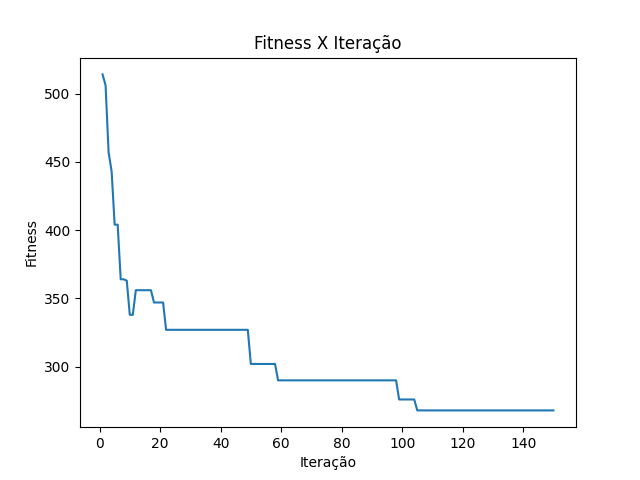
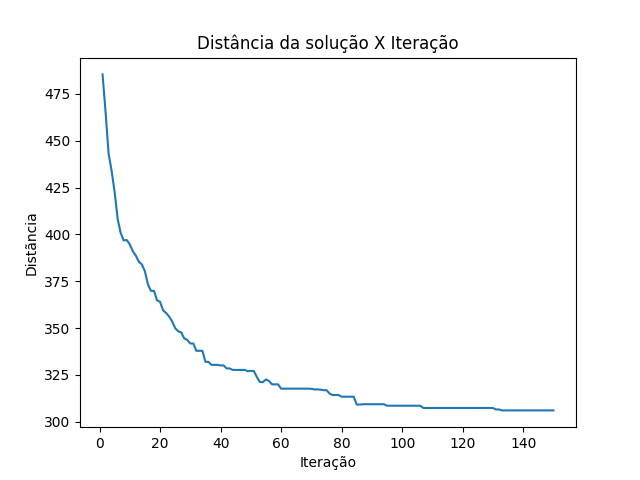
Testes feitos levando em conta as médias dos resultados; adicionado alguns comentários nas funções

diff --git a/t01/algorithms_tester.py b/t01/algorithms_tester.py
@@ -25,7 +25,7 @@ class AlgorithmsTester:
         ratio_of_genes_to_generate=RATIO_OF_GENES_TO_GENERATE,
         max_iterations=MAX_ITERATIONS,
         probability_of_mutation=PROBABILITY_OF_MUTATION):
-        """[summary]
+        """
         Implement Waine
 
         Keyword Arguments:
@@ -56,7 +56,7 @@ class AlgorithmsTester:
     def static_test_beam_search(self,
         number_of_simulations,
         k_states=K_STATES):
-        """[summary]
+        """
         Implement Waine
 
         Arguments:
@@ -81,7 +81,7 @@ class AlgorithmsTester:
         return results
 
     def test_beam_search(self, number_of_simulations, range_k_states=[K_STATES]):
-        """[summary]
+        """Test the beam search given the specified parameters
         Implement Waine
 
         Keyword Arguments:
@@ -92,7 +92,7 @@ class AlgorithmsTester:
         """
         results = []
         for k in range_k_states:
-            results.extend(self.static_test_beam_search(number_of_simulations, k))
+            results.append(self.static_test_beam_search(number_of_simulations, k))
 
         return results
 
@@ -103,7 +103,7 @@ class AlgorithmsTester:
         ratio_of_genes_to_generate=[RATIO_OF_GENES_TO_GENERATE],
         max_iterations=[MAX_ITERATIONS],
         probability_of_mutation=[PROBABILITY_OF_MUTATION]):
-        """[summary]
+        """Test the genetic algorithm given the specified parameters
         Implement Waine
 
         Arguments:
@@ -125,7 +125,7 @@ class AlgorithmsTester:
                 for r_gen_generate in ratio_of_genes_to_generate:
                     for max_it in max_iterations:
                         for prob_of_mutation in probability_of_mutation:
-                            results.extend(self.static_test_genetic_algorithm(
+                            results.append(self.static_test_genetic_algorithm(
                                 number_of_simulations_for_each_configuration,
                                 n_gen, max_fit, r_gen_generate, max_it,
                                 prob_of_mutation
@@ -133,66 +133,64 @@ class AlgorithmsTester:
         return results
 
     def test_ga_fitness_over_max_iterations(self):
-        """[summary]
+        """average weight for each iteration until the solution is found
         Implement Ian
         """
         results = self.test_genetic_algorithm(10, maximum_fitness_to_hold=[150], max_iterations=[150])[0]
-        result = self.select_best_result(results)
-        iterations = [i + 1 for i in range(len(result['fitnesses']))]
-        self.plotter.plot_line(iterations, result['fitnesses'])
-        self.plotter.save_plots('Iteração', 'Fitness', 'fit_over_ite', 'Fitness X Iteração')
+        new_results = []
+        for i in range(len(results[0]['fitnesses'])):
+            res = [{'weight': result['fitnesses'][i]} for result in results]
+            new_results.append(res)
+        iterations = [i + 1 for i in range(150)]
+        weights = [self.average_weight(result) for result in new_results]
+        self.plotter.plot_line(iterations, weights)
+        self.plotter.save_plots('Iteração', 'Distãncia', 'fit_over_ite', 'Distância da solução X Iteração')
         # self.plotter.flush()
         
 
     def test_ga_fitness_over_n_genes(self):
-        """[summary]
+        """average weight over number of genes in the population
         Implement Waine
         """
         n_genes = [5, 10, 25, 50, 100, 150, 250]
-        results = self.test_genetic_algorithm(5, n_genes=n_genes)
+        results = self.test_genetic_algorithm(10, n_genes=n_genes)
         # self.save_dicts_as_json(results, "fitness_over_n_genes")
-        # fitness = [self.select_best_result(result)['weight'] for result in results]
-        # self.plotter.plot_line(n_genes, fitness)
-        points = np.array([[r["params"]["n_genes"], r["weight"]] for r in results])
-        self.plotter.plot_points(points[:, 0], points[:, 1])
-        self.plotter.save_plots('Tamanho da população', 'Fitness', 'fit_over_n_genes_points', 'Fitness x Tamanho da população')
+        fitness = [self.average_weight(result) for result in results]
+        self.plotter.plot_line(n_genes, fitness)
+        self.plotter.save_plots('População', 'Distância', 'fit_over_ngenes', 'Distância da solução x tamanho da população')
+        # points = np.array([[r["params"]["n_genes"], r["weight"]] for r in results])
+        # self.plotter.plot_points(points[:, 0], points[:, 1])
+        # self.plotter.save_plots('Tamanho da população', 'Fitness', 'fit_over_n_genes_points', 'Fitness x Tamanho da população')
 
     def test_ga_fitness_over_ratio_of_genes_to_generate(self):
-        """[summary]
+        """average weight over the quantity of new genes generated in each iteration
         Implement Waine
         """
         ratio_of_genes_to_generate = [0.5, 1, 2.5, 5, 7.5, 10]
-        results = self.test_genetic_algorithm(5, 
+        results = self.test_genetic_algorithm(10, 
             ratio_of_genes_to_generate=ratio_of_genes_to_generate)
         # self.save_dicts_as_json(results, "fitness_over_ratio_of_genes")
-        #fitness = [self.select_best_result(result)['weight'] for result in results]
-        #self.plotter.plot_line(ratio_of_genes_to_generate, fitness)
-        #self.plotter.save_plots('Ratio', 'Fitness', 'fit_over_rat', 'Fitness x Ratio')
-        #self.plotter.flush()
-        points = np.array([[float(r["params"]["ratio_of_genes_to_generate"]), r['weight']]
-            for r in results])
-        self.plotter.plot_points(points[:, 0], points[:, 1])
-        self.plotter.save_plots('Ratio', 'Weight', 'fit_over_weight', 'Weight x Ratio')
+        fitness = [self.average_weight(result) for result in results]
+        self.plotter.plot_line(ratio_of_genes_to_generate, fitness)
+        self.plotter.save_plots('Razão', 'Distância', 'fit_over_ratio', 'Distância da solução x razão de indivíduos gerados')
+        # points = np.array([[float(r["params"]["ratio_of_genes_to_generate"]), r['weight']]
+        #     for r in results])
+        # self.plotter.plot_points(points[:, 0], points[:, 1])
+        # self.plotter.save_plots('Razão', 'Distância', 'fit_over_weight', 'Distância da solução x razão de indivíduos gerados')
         #self.plotter.flush()
 
     def test_lb_fitness_over_kept_states(self):
-        """[summary]
+        """average weight of simulations over the number of generated and kept states in each iteration
         Implement Ian
         """
         kept_states = list(range(16))[1:]
-        print('kept', kept_states)
-        results = self.test_beam_search(50, range_k_states=kept_states)
-        #results = [self.select_best_result(result) for result in results]
-        #fitness = [result['weight'] for result in results]
-        #self.plotter.plot_line(kept_states, fitness)
-        #self.plotter.save_plots('Estados em memória', 'Fitness', 'fit_over_mem', 'Fitness x Estados em memória')
-        #self.plotter.flush()
-        points= np.array([[r["params"]["k_states"], r["weight"]] for r in results])
-        self.plotter.plot_points(points[:,0], points[:,1])
-        self.plotter.save_plots('Estados em memória', 'Fitness', 'fit_over_mem_points', 'Fitness x Estados em memória')
+        results = self.test_beam_search(100, range_k_states=kept_states)
+        weights = [self.average_weight(result) for result in results]
+        self.plotter.plot_line(kept_states, weights)
+        self.plotter.save_plots('Estados em memória', 'Distância', 'fit_over_mem', 'Distância da solução x Estados em memória')
 
     def test_averages(self):
-        """[summary]
+        """Test average time and weight of each algorithm
         Implement Waine
         """
         res_bs = self.test_beam_search(100)[0]
@@ -214,8 +212,11 @@ class AlgorithmsTester:
         print('avg fitness of genetic algorithm: {}'.format(ga_avg_fitness))
         print('best fitness of genetic algorithm: {}'.format(ga_best_fitness))
 
+    def average_weight(self, results):
+        return sum([result['weight'] for result in results]) / len(results)
+
     def select_best_result(self, results, field='weight', compare='lt'):
-        """[summary]
+        """
         Implement Ian
         """
         best = 0
@@ -229,7 +230,7 @@ class AlgorithmsTester:
         return results[best]
 
     def save_dicts_as_json(self, list_of_dicts, dict_name):
-        """[summary]
+        """Save the passed dictionaries as a json file
         Implement Waine
 
         Arguments:
@@ -249,7 +250,7 @@ class AlgorithmsTester:
         ga_fitness_over_n_genes=True,
         ga_fitness_over_ratio_of_genes_to_generate=True,
         lb_fitness_over_kept_states=True):
-        """[summary]
+        """Peform a battery of tests on each algorithm
         
         Keyword Arguments:
             avg_simulation_time {bool} -- [description] (default: {True})

diff --git a/t01/main.py b/t01/main.py
@@ -1,4 +1,6 @@
 import numpy as np
+import random
+import time
 
 from beam_search import BeamSearchSolver
 from genetic_algorithm import GeneticAlgorithmSolver
@@ -10,6 +12,8 @@ import pprint
 pp = pprint.PrettyPrinter()
 
 if(__name__=="__main__"):
+
+    random.seed(int(time.time()*1000))
     distance_matrix = np.array( # optimal solution is probably 291 for this distance matrix
         [0,29,82,46,68,52,72,42,51,55,29,74,23,72,46,
         29,0,55,46,42,43,43,23,23,31,41,51,11,52,21,
@@ -26,7 +30,6 @@ if(__name__=="__main__"):
         23,11,64,51,46,51,51,33,29,41,42,61,0,62,23,
         72,52,31,43,65,29,46,31,51,23,59,11,62,0,59,
         46,21,51,64,23,59,33,37,11,37,61,55,23,59,0]).reshape((15, 15))
-
     '''
     solver_ga = GeneticAlgorithmSolver()
     solver_bs = BeamSearchSolver()
@@ -38,10 +41,9 @@ if(__name__=="__main__"):
     print('solution of bs=', res_bs,
           'weight of bs=', calculate_path_cost(res_bs, distance_matrix))
     '''
-
     alg_tester = AlgorithmsTester(291, distance_matrix)
     alg_tester.perform_tests(
-        avg_simulation=True,
+        avg_simulation=False,
         ga_fitness_over_max_iterations=False,
         ga_fitness_over_n_genes=False,
         ga_fitness_over_ratio_of_genes_to_generate=False,

diff --git a/t01/genetic_algorithm.py b/t01/genetic_algorithm.py
@@ -84,7 +84,7 @@ class GeneticAlgorithmSolver:
         return [random.sample(permutation, len(permutation)) for i in range(self.n_genes)]
 
     def select_best_genes(self, genes):
-        """[summary]
+        """Filter population to only superior genes
         Implement Ian
 
         Arguments:
@@ -177,7 +177,7 @@ class GeneticAlgorithmSolver:
         return gene
 
     def stop_condtion(self):
-        """[summary]
+        """Condition to stop the algorithm, it stops when the last n fitnesses of populations are the same
         Implement Ian
         """
         if (len(self.past_fitness)
